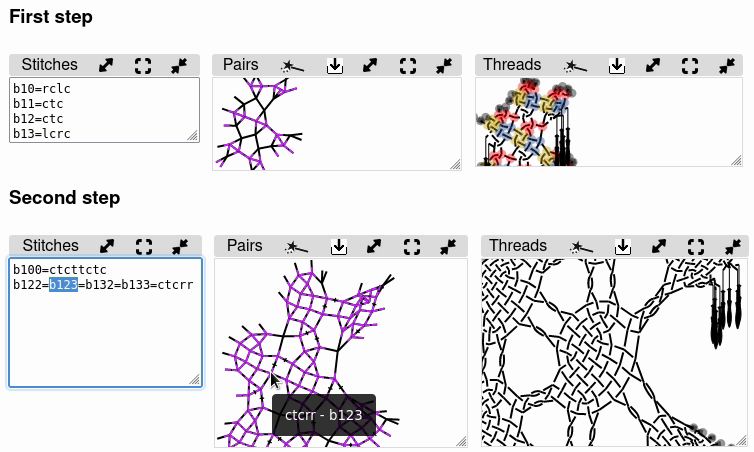
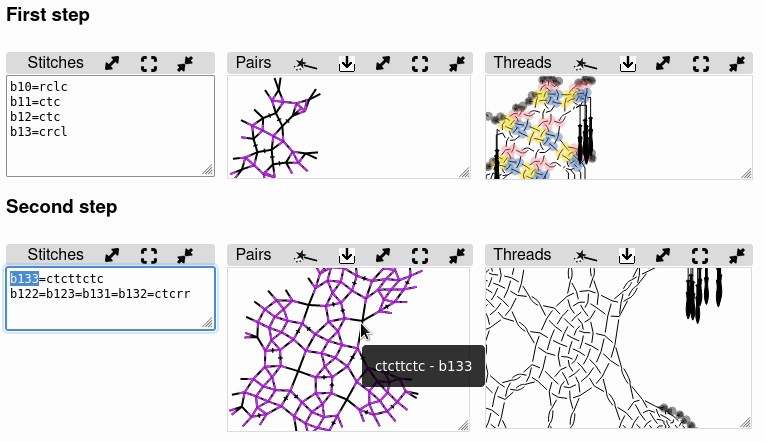
glitches

diff --git a/docs/counting-snow/index.md b/docs/counting-snow/index.md
@@ -27,12 +27,11 @@ Contents
   * [3 pairs](#3-pairs)
   * [2 pairs](#2-pairs)
   * [Exploring families](#exploring-families)
-    * [Pair diagrams](#pair-diagrams)
-    * [Compose grounds](#compose-grounds)
   * [Choose stitches](#choose-stitches)
     * [6 pairs](#6-pairs)
     * [4 pairs](#4-pairs)
     * [3 pairs](#3-pairs-1)
+  * [Compose grounds](#compose-grounds)
 
 Introduction
 ------------
@@ -226,8 +225,6 @@ these are explored on [Listing & counting stitches](../counting).
 Exploring families
 ------------------
 
-### Pair diagrams
-
 So far we mainly explored how pairs changed position after making a crossing.
 
 A pair (or groups of pairs) not touching remaining pairs turns a given permutation into separate crossings.
@@ -242,6 +239,7 @@ Note that swapping starts and/or ends means dealing with another family.
 
 The following not-exhaustive families are created manually from some of the generated permutations.
 The figure below contains a few more examples beyond the visible area.
+The captions for the family members are explained later.
 
 ![](654321.svg)  
 
@@ -253,24 +251,6 @@ that two lines of the same color cross one another.
 
 ![](numbering-method.svg)
 
-
-### Compose grounds
-
-A bit beyond the subject of counting snowflakes is assembling grounds. 
-Our focus is on 6-pair snowflakes. They can be connected directly, via plaits, framed in Paris grounds or whatever.
-It needs some attention to prevent loops.
-
-When the number start with 1 and ends with 6
-you can't repeat them next to one another without further interaction.
-The second family explored above shows you would get loops.
-
-The bouncing variations can also be represented as follows:
-
-![](compose.svg)
-
-Red are incoming pairs, blue are leaving pairs. 
-Above we counted in how many ways we can connect each red line to a blue line within the same circle. 
-Outside the circles we also should not connect red with red or blue with blue without some exchange.
 
 Choose stitches
 ---------------
@@ -286,6 +266,8 @@ So far only recipes without bouncing pairs.
 
 We can analyse stitches in a diagram by marking them with blobs. 
 On the right a solution for one snowflake.
+The capital R indicates that the first blob is on the right side,
+in other words the first stitch would be made with the two pairs on the right.
 
 Requirements for the blobs: span 4 threads, threads flow two by two into adjacent blobs. 
 Not all blobs need to have an interaction for all of its four threads.
@@ -308,8 +290,9 @@ PLease don't rely on twist marks in the pair diagrams, they are buggy.
 |          right          | [2][r2], [3][r3], [4][r4], [5][r5], [6][r6], [7][r7], [8][r8], [9][r9] | 
 |          left           | [2][l2], [3][l3], [4][l4], [5][l5], [6][l6], [7][l7], [8][l8], [9][l9] | 
 
+&nbsp;  
 
-&nbsp;
+[//]: # (https://d-bl.github.io/GroundForge/droste.html?patchWidth=5&patchHeight=7&tile=-5&shiftColsSW=-1&shiftRowsSW=1&shiftColsSE=1&shiftRowsSE=1&b1=rcrc&droste2=b10=rclc,b11=ctc,b12=ctc,b13=lcrc&droste3=b100=ctcttctc,b122=b123=b132=b133=ctcrr#)
 
 ![](blobs-drostes.png?align=right)
 
@@ -319,16 +302,16 @@ PLease don't rely on twist marks in the pair diagrams, they are buggy.
 [r3]: /GroundForge/droste?b1=rcr&patchWidth=3&patchHeight=5&paintStitches=rcrc&tile=-5&shiftColsSW=-1&shiftRowsSW=1&shiftColsSE=1&shiftRowsSE=1&
 [l4]: /GroundForge/droste?b1=lclc&patchWidth=3&patchHeight=5&paintStitches=rcrc&tile=-5&shiftColsSW=-1&shiftRowsSW=1&shiftColsSE=1&shiftRowsSE=1&
 [r4]: /GroundForge/droste?b1=rcrc&patchWidth=3&patchHeight=5&paintStitches=rcrc&tile=-5&shiftColsSW=-1&shiftRowsSW=1&shiftColsSE=1&shiftRowsSE=1&
-[l5]: /GroundForge/droste?b1=lclc&patchWidth=3&patchHeight=5&paintStitches=rcrc&tile=-5&shiftColsSW=-1&shiftRowsSW=1&shiftColsSE=1&shiftRowsSE=1&
-[r5]: /GroundForge/droste?b1=rcrc&patchWidth=3&patchHeight=5&paintStitches=rcrc&tile=-5&shiftColsSW=-1&shiftRowsSW=1&shiftColsSE=1&shiftRowsSE=1&
-[l6]: /GroundForge/droste?b1=lclc&patchWidth=3&patchHeight=5&paintStitches=rcrc&tile=-5&shiftColsSW=-1&shiftRowsSW=1&shiftColsSE=1&shiftRowsSE=1&
-[r6]: /GroundForge/droste?b1=rcrc&patchWidth=3&patchHeight=5&paintStitches=rcrc&tile=-5&shiftColsSW=-1&shiftRowsSW=1&shiftColsSE=1&shiftRowsSE=1&
-[l7]: /GroundForge/droste?b1=lclc&patchWidth=3&patchHeight=5&paintStitches=rcrc&tile=-5&shiftColsSW=-1&shiftRowsSW=1&shiftColsSE=1&shiftRowsSE=1&
-[r7]: /GroundForge/droste?b1=rcrc&patchWidth=3&patchHeight=5&paintStitches=rcrc&tile=-5&shiftColsSW=-1&shiftRowsSW=1&shiftColsSE=1&shiftRowsSE=1&
-[l8]: /GroundForge/droste?b1=lclc&patchWidth=3&patchHeight=5&paintStitches=rcrc&tile=-5&shiftColsSW=-1&shiftRowsSW=1&shiftColsSE=1&shiftRowsSE=1&
-[r8]: /GroundForge/droste?b1=rcrc&patchWidth=3&patchHeight=5&paintStitches=rcrc&tile=-5&shiftColsSW=-1&shiftRowsSW=1&shiftColsSE=1&shiftRowsSE=1&
-[l9]: /GroundForge/droste?b1=lclc&patchWidth=3&patchHeight=5&paintStitches=rcrc&tile=-5&shiftColsSW=-1&shiftRowsSW=1&shiftColsSE=1&shiftRowsSE=1&
-[r9]: /GroundForge/droste?b1=rcrc&patchWidth=3&patchHeight=5&paintStitches=rcrc&tile=-5&shiftColsSW=-1&shiftRowsSW=1&shiftColsSE=1&shiftRowsSE=1&
+[l5]: /GroundForge/droste?b1=lclcl&patchWidth=3&patchHeight=5&paintStitches=rcrc&tile=-5&shiftColsSW=-1&shiftRowsSW=1&shiftColsSE=1&shiftRowsSE=1&
+[r5]: /GroundForge/droste?b1=rcrcr&patchWidth=3&patchHeight=5&paintStitches=rcrc&tile=-5&shiftColsSW=-1&shiftRowsSW=1&shiftColsSE=1&shiftRowsSE=1&
+[l6]: /GroundForge/droste?b1=lclclc&patchWidth=3&patchHeight=5&paintStitches=rcrc&tile=-5&shiftColsSW=-1&shiftRowsSW=1&shiftColsSE=1&shiftRowsSE=1&
+[r6]: /GroundForge/droste?b1=rcrcrc&patchWidth=3&patchHeight=5&paintStitches=rcrc&tile=-5&shiftColsSW=-1&shiftRowsSW=1&shiftColsSE=1&shiftRowsSE=1&
+[l7]: /GroundForge/droste?b1=lclclcl&patchWidth=3&patchHeight=5&paintStitches=rcrc&tile=-5&shiftColsSW=-1&shiftRowsSW=1&shiftColsSE=1&shiftRowsSE=1&
+[r7]: /GroundForge/droste?b1=rcrcrcr&patchWidth=3&patchHeight=5&paintStitches=rcrc&tile=-5&shiftColsSW=-1&shiftRowsSW=1&shiftColsSE=1&shiftRowsSE=1&
+[l8]: /GroundForge/droste?b1=lclclclc&patchWidth=3&patchHeight=5&paintStitches=rcrc&tile=-5&shiftColsSW=-1&shiftRowsSW=1&shiftColsSE=1&shiftRowsSE=1&
+[r8]: /GroundForge/droste?b1=rcrcrcrc&patchWidth=3&patchHeight=5&paintStitches=rcrc&tile=-5&shiftColsSW=-1&shiftRowsSW=1&shiftColsSE=1&shiftRowsSE=1&
+[l9]: /GroundForge/droste?b1=lclclclcl&patchWidth=3&patchHeight=5&paintStitches=rcrc&tile=-5&shiftColsSW=-1&shiftRowsSW=1&shiftColsSE=1&shiftRowsSE=1&
+[r9]: /GroundForge/droste?b1=rcrcrcrcr&patchWidth=3&patchHeight=5&paintStitches=rcrc&tile=-5&shiftColsSW=-1&shiftRowsSW=1&shiftColsSE=1&shiftRowsSE=1&
 
 
 ### 4 pairs
@@ -355,3 +338,22 @@ Stitches with three pairs are not very logical for a seasoned bobbin lace maker,
 It means consistently either no right twists or no left twists. 
 GroundForge can handle it, it shows starting pins for each 4th thread but no thread.
 Using these basic thread diagrams as pair diagrams (droste effect) is explained in more detail for six pairs. 
+
+Compose grounds
+---------------
+
+A bit beyond the subject of counting snowflakes is assembling grounds. 
+Our focus is on 6-pair snowflakes. They can be connected directly, via plaits, framed in Paris grounds or whatever.
+It needs some attention to prevent loops.
+
+When the number start with 1 and ends with 6
+you can't repeat them next to one another without further interaction.
+The second family explored above shows you would get loops.
+
+The bouncing variations can also be represented as follows:
+
+![](compose.svg)
+
+Red are incoming pairs, blue are leaving pairs. 
+Above we counted in how many ways we can connect each red line to a blue line within the same circle. 
+Outside the circles we also should not connect red with red or blue with blue without some exchange.
